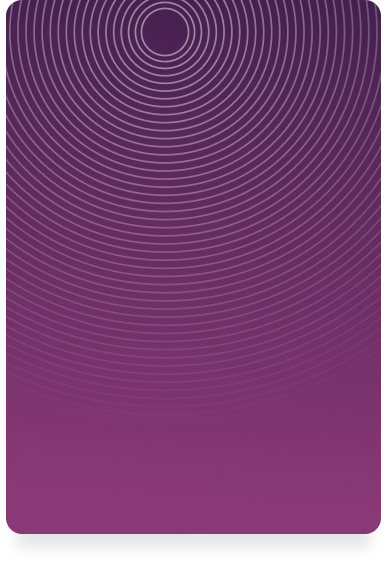
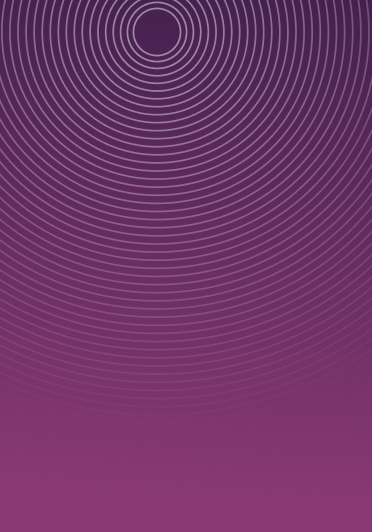
Merge pull request #48 from creutodev2/feat/new-hero
Feat/new hero

Pull request: Feat/new hero

Changed region(s): [[0.0, 0.0, 1.0, 1.0]]

diff --git a/app/components/Bento/BentoGrid.tsx b/app/components/Bento/BentoGrid.tsx
@@ -4,7 +4,7 @@ import React from "react";
 import Image from "next/image";
 
 const DVOXCard = () => (
-  <div className="w-full lg:w-[511px] h-[500px] sm:h-[534px]">
+  <div className="w-full lg:flex-[0_0_40%] h-[500px] sm:h-[534px]">
     <div className="relative rounded-3xl overflow-hidden h-full w-full">
       <div className="absolute inset-0 bg-[#12121B]">
         <Image
@@ -46,7 +46,7 @@ const DVOXCard = () => (
 );
 
 const ODNCard = () => (
-  <div className="w-full lg:w-[761px] h-[560px] sm:h-[534px]">
+  <div className="w-full lg:flex-[0_0_60%] h-[560px] sm:h-[534px]">
     <div className="relative h-full w-full rounded-3xl overflow-hidden">
       <Image
         src="/images/bento/bento-2-bg.png"
@@ -65,7 +65,7 @@ const ODNCard = () => (
         priority
       />
 
-      <div className="lg:hidden relative z-10 h-full flex flex-col justify-between p-6">
+      <div className="sm:hidden relative z-10 h-full flex flex-col justify-between p-6 overflow-y-hidden">
         <div className="text-white mt-4">
           <h3 className="text-[28px] font-bold mb-2 leading-[40px]">ODN On-Chain Vaults</h3>
           <p className="text-[16px] text-white leading-[24px] font-medium">
@@ -76,19 +76,19 @@ const ODNCard = () => (
           </p>
         </div>
         
-        <div className="flex justify-center items-end pb-4 relative">
+        <div className="flex justify-center items-end relative -bottom-40">
           <Image
             src="/images/bento/bento-2-mobile.png"
             alt="ODN Mobile App"
             width={1000}
             height={1000}
             priority
-            className="h-[280px] w-auto object-contain hover:scale-105 transition-all duration-300 absolute"
+            className="h-[420px] sm:h-[280px] w-auto object-contain hover:scale-105 transition-all duration-300 absolute"
           />
         </div>
       </div>
 
-      <div className="hidden lg:block relative h-full">
+      <div className="hidden sm:block relative h-full">
         <div className="absolute top-1/2 -translate-y-[35%] left-10">
           <Image
             src="/images/bento/bento-2-mobile.png"
@@ -143,20 +143,20 @@ const OROXAppCard = () => (
           </p>
         </div>
 
-        <div className="flex justify-center items-end pb-4 relative">
+        <div className="block lg:hidden flex justify-center items-end pb-4 relative -mb-40">
           <Image
             src="/images/bento/bento-3-mobile.png"
             alt="OROX App Mobile"
             width={1000}
             height={1000}
             priority
-            className="h-[280px] bottom-0 w-auto object-contain hover:scale-105 transition-all duration-300 z-10"
+            className="h-[420px] bottom-0 w-auto object-contain hover:scale-105 transition-all duration-300 z-10"
           />
         </div>
       </div>
 
       <div className="hidden lg:block h-full">
-        <div className="absolute right-20 -bottom-20 z-10">
+        <div className="absolute right-20 -bottom-[100px] z-10">
           <Image
             src="/images/bento/bento-3-mobile.png"
             alt="OROX App Mobile"
@@ -184,7 +184,7 @@ const OROXAppCard = () => (
 );
 
 const OpusMomentusCard = () => (
-  <div className="w-full lg:w-[760px] h-[500px] sm:h-[488px]">
+  <div className="w-full lg:flex-[0_0_60%] h-[500px] sm:h-[488px]">
     <div className="relative rounded-3xl overflow-hidden h-full w-full bg-[#0A0A0F] ">
       <div className="absolute top-0 left-0 right-0 h-52 lg:h-72 rounded-tl-3xl rounded-tr-3xl overflow-hidden">
         <video
@@ -216,7 +216,7 @@ const OpusMomentusCard = () => (
 );
 
 const AlphaFundCard = () => (
-  <div className="w-full lg:w-[511px] h-[450px] sm:h-[488px]">
+  <div className="w-full lg:flex-[0_0_40%] h-[450px] sm:h-[488px]">
     <div className="relative rounded-3xl overflow-hidden h-full w-full">
       <div className="absolute inset-0">
         <Image
@@ -269,7 +269,7 @@ export const BentoGrid = () => {
         </div>
 
         <div className="hidden lg:flex lg:flex-col lg:items-center lg:gap-2">
-          <div className="flex justify-start items-center gap-2">
+          <div className="w-full flex justify-start items-center gap-2">
             <DVOXCard />
             <ODNCard />
           </div>
@@ -278,7 +278,7 @@ export const BentoGrid = () => {
             <OROXAppCard />
           </div>
 
-          <div className="flex justify-start items-center gap-2">
+          <div className="w-full flex justify-start items-center gap-2">
             <OpusMomentusCard />
             <AlphaFundCard />
           </div>

diff --git a/app/components/About/AboutHero.tsx b/app/components/About/AboutHero.tsx
@@ -45,7 +45,7 @@ const AboutHero = () => {
           <div className="relative lg:w-1/2 min-h-[400px] md:min-h-[500px] lg:min-h-[550px]">
             <video
               ref={videoRef}
-              src="/videos/About.mp4"
+              src="/videos/AboutNew.mp4"
               autoPlay
               muted
               loop

diff --git a/app/components/Hero/NewHero.tsx b/app/components/Hero/NewHero.tsx
@@ -4,7 +4,7 @@ import { PartnersMarquee } from "../Partners/PartnersMarquee";
 
 const NewHero = () => {
   return (
-    <section className="relative h-screen w-full flex flex-col justify-between">
+    <section className="relative h-[75vh] md:h-screen w-full flex flex-col justify-between">
       <div className="relative flex-1 w-full">
         <Image
           src="/images/hero/hero.png"